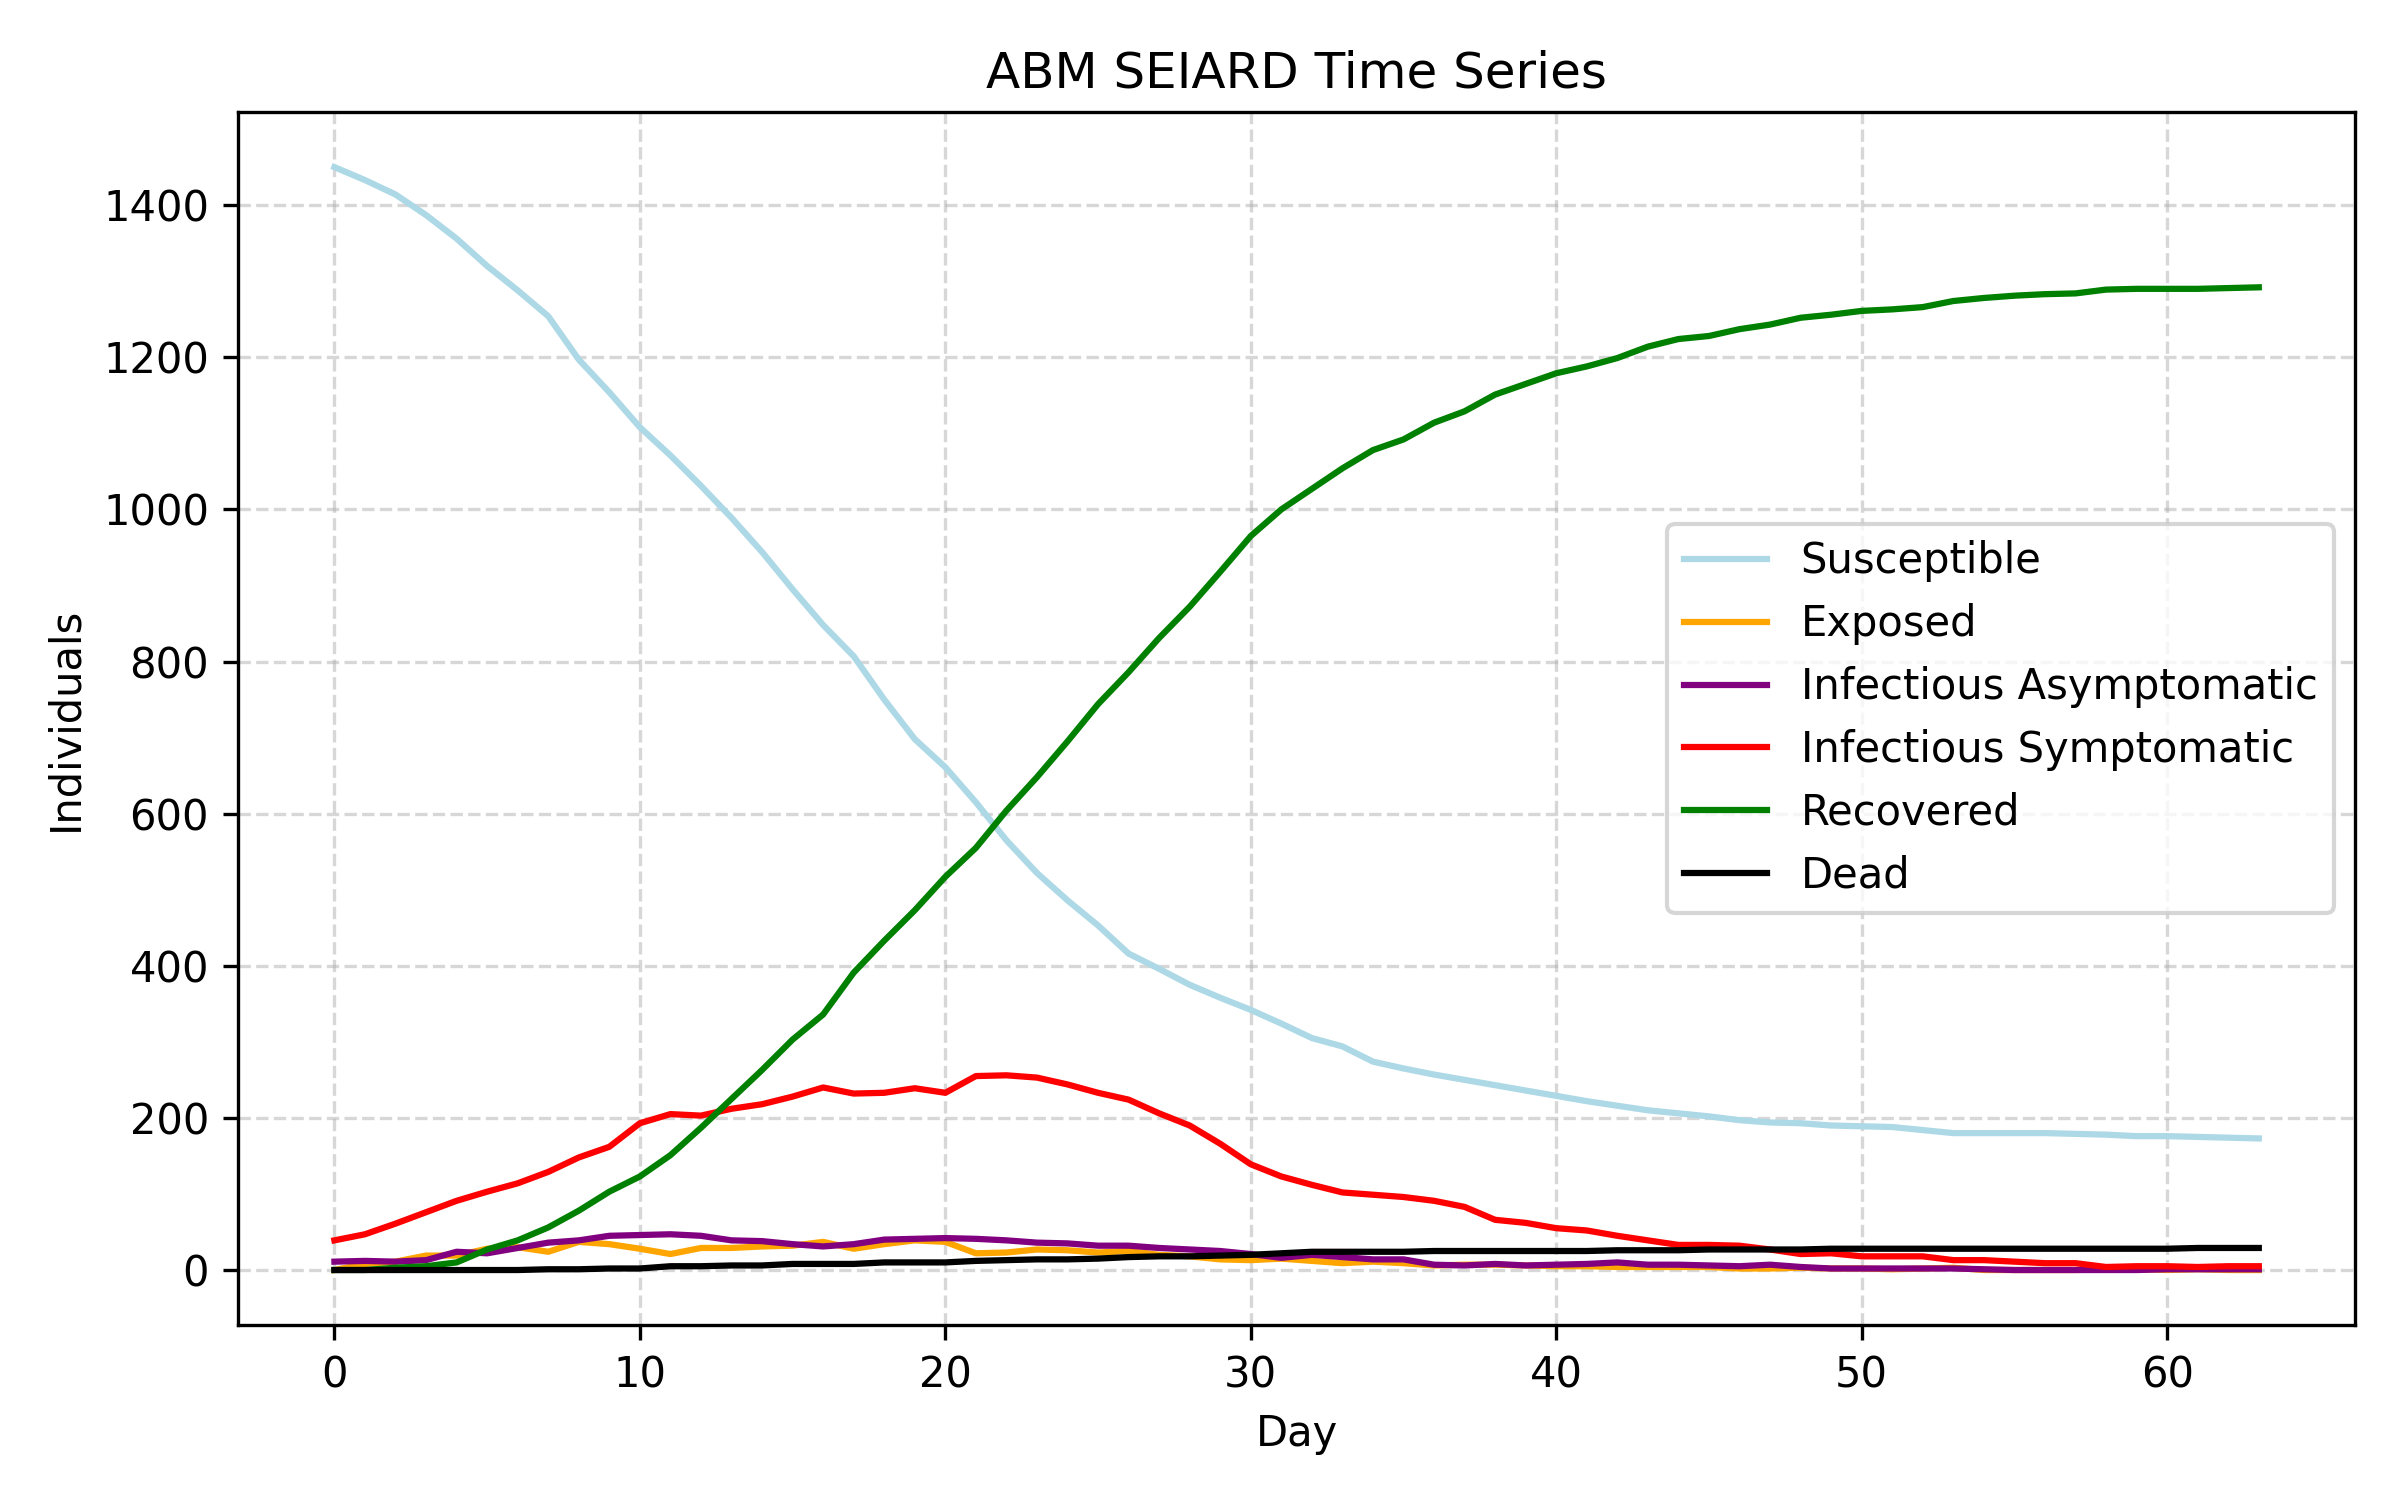
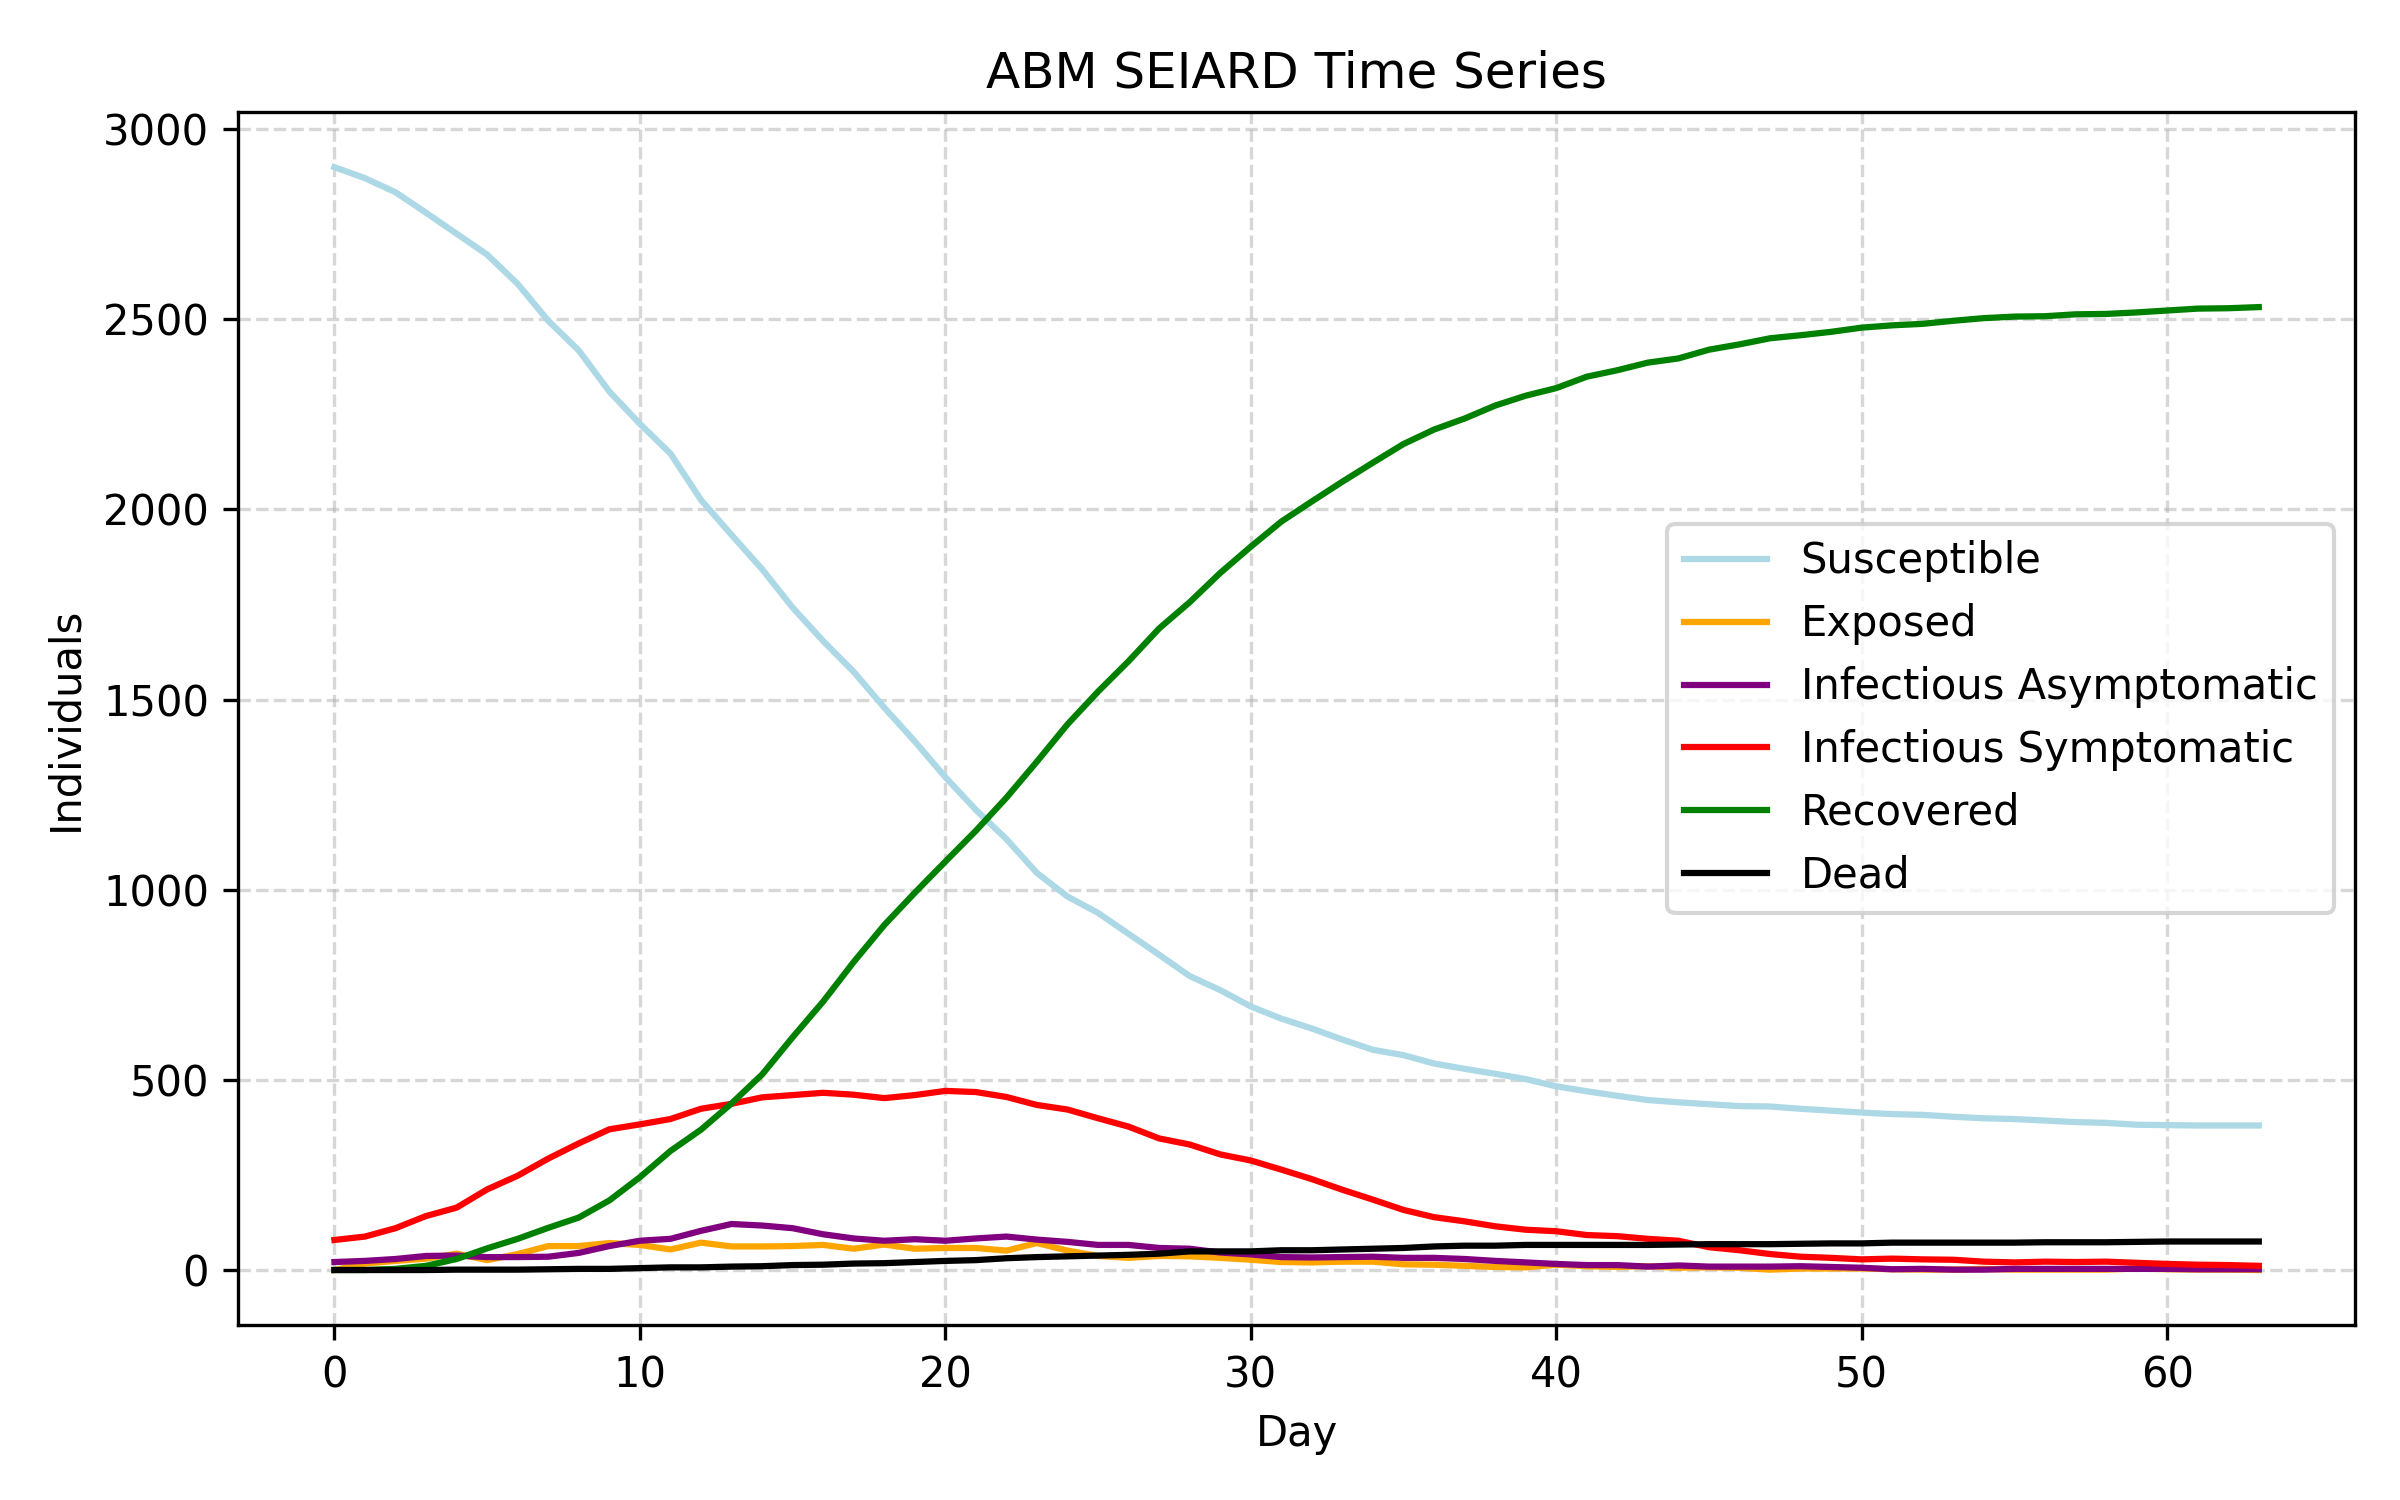
updates

diff --git a/src/visualization.py b/src/visualization.py
@@ -8,8 +8,8 @@ import matplotlib.patches as mpatches
 COLORS = {
     "S": "lightblue", 
     "E": "orange", 
-    "IA": "purple",
     "IS": "red",
+    "IA": "purple",
     "I": "red", 
     "R": "green", 
     "D": "black"
@@ -114,7 +114,7 @@ def animate_network_spread(model, interval=150, figsize=(12, 12), model_type="SI
     elif model_type == "SEIRD" or model_type == "SEIR":
         state_keys = ["S", "E", "I", "R", "D"]
     elif model_type == "SEIARD" or model_type == "SEIAR":
-        state_keys = ["S", "E", "IA", "IS", "R", "D"]
+        state_keys = ["S", "E", "IS", "IA", "R", "D"]
     else:
         raise ValueError("Unknown `model_type`")
     

diff --git a/src/examples.py b/src/examples.py
@@ -63,8 +63,8 @@ def ex_seird_1():
 
 def ex_seiard_1():
     cfg = ConfigSEIARD(
-        N=1500,
-        I0=50, 
+        N=3000,
+        I0=100, 
         seed=42,
     )
 
